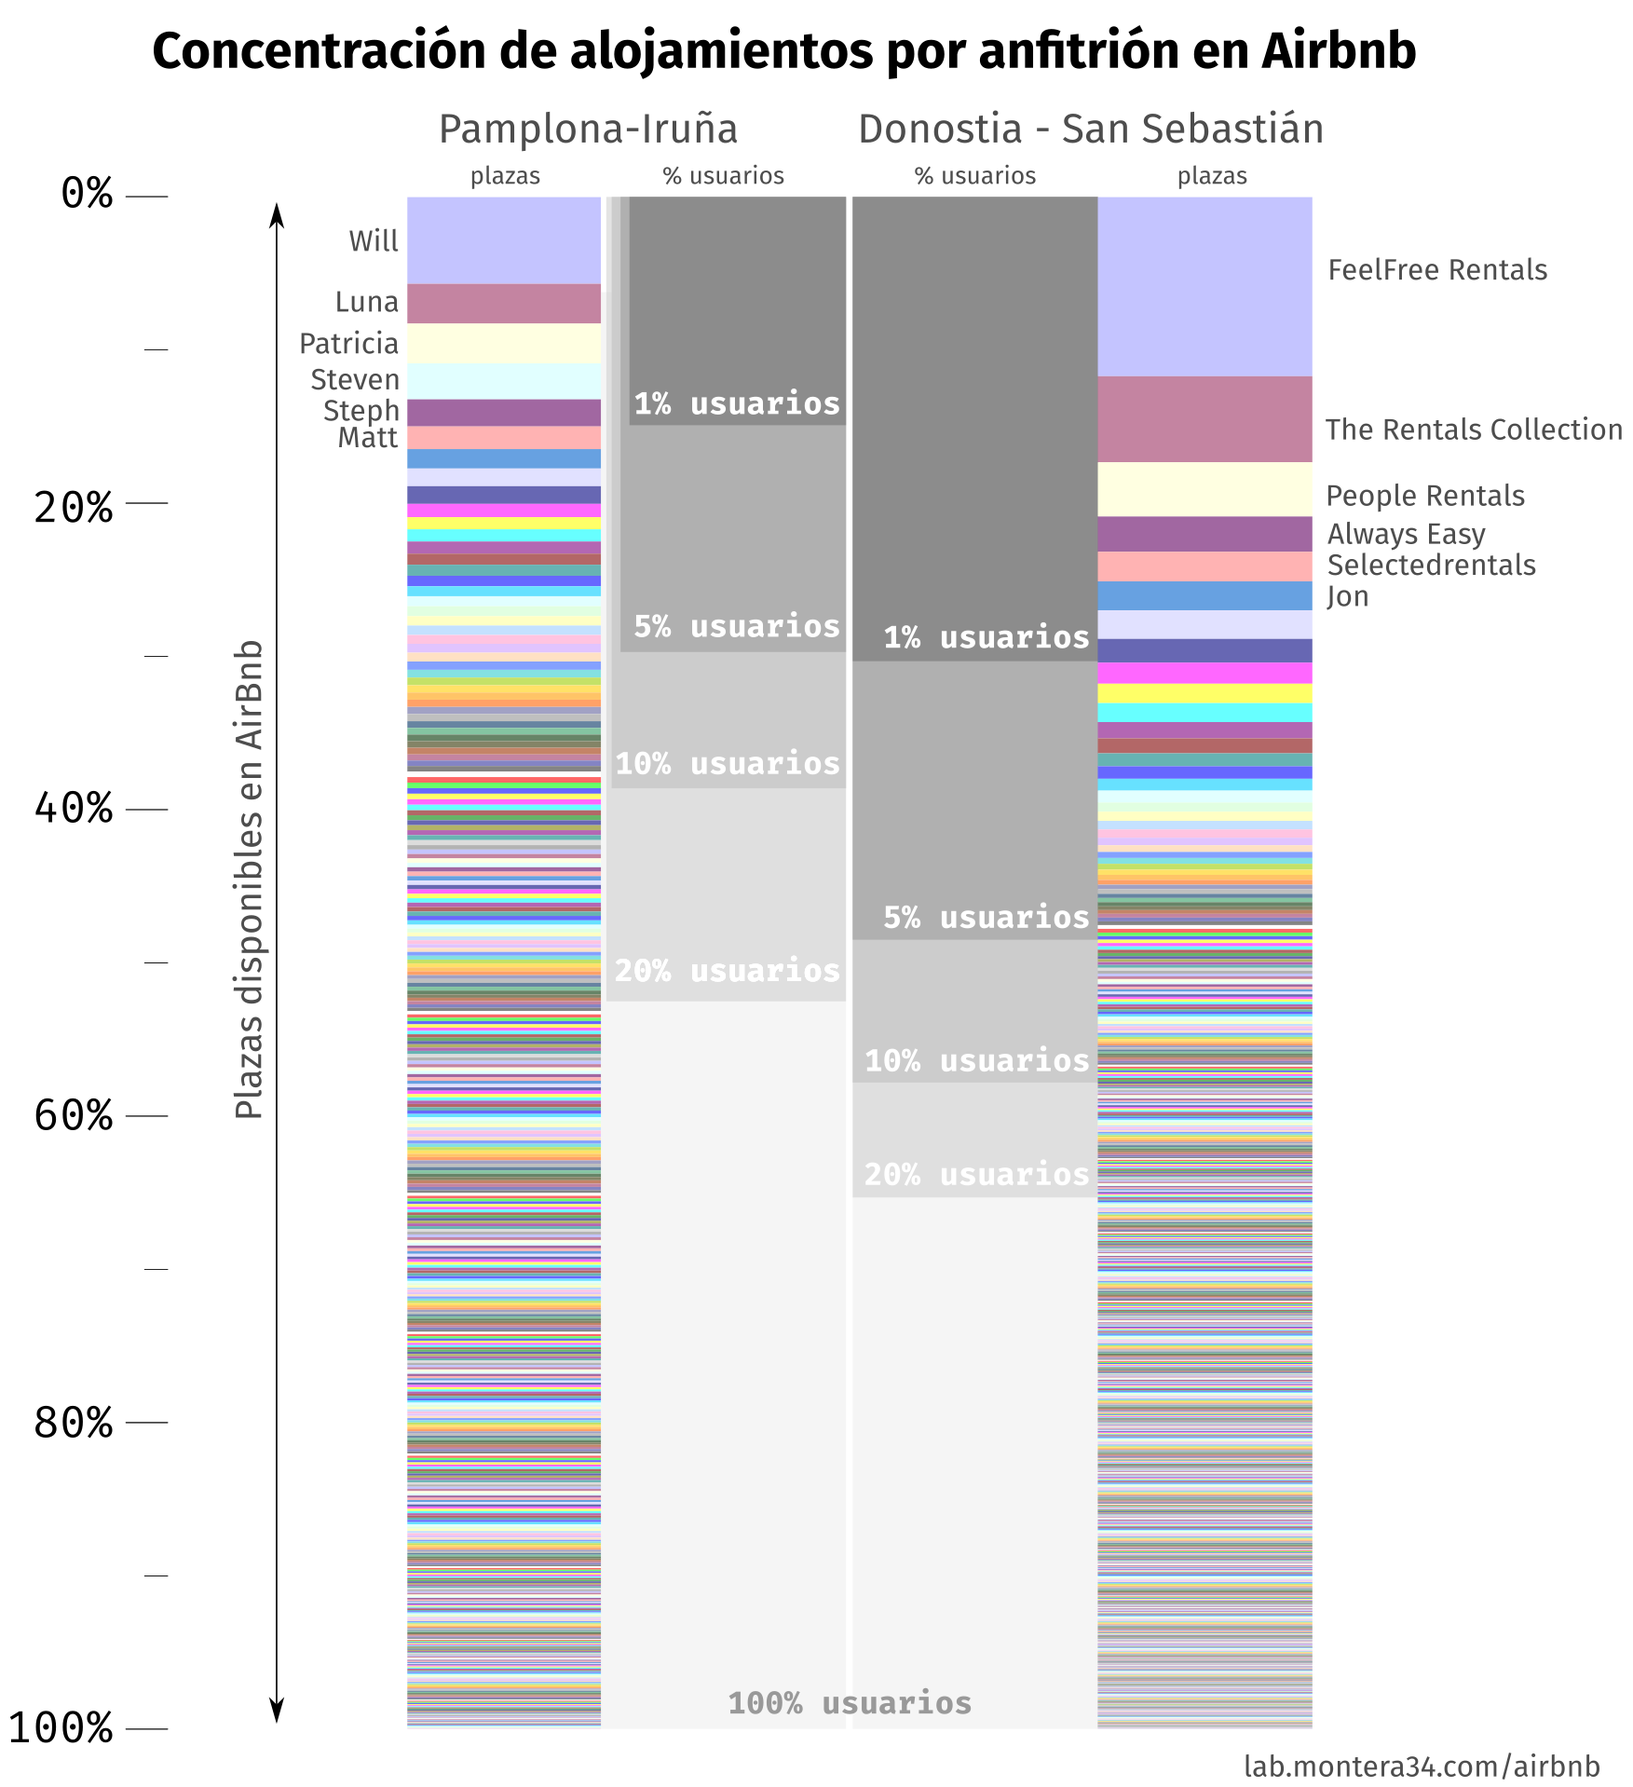
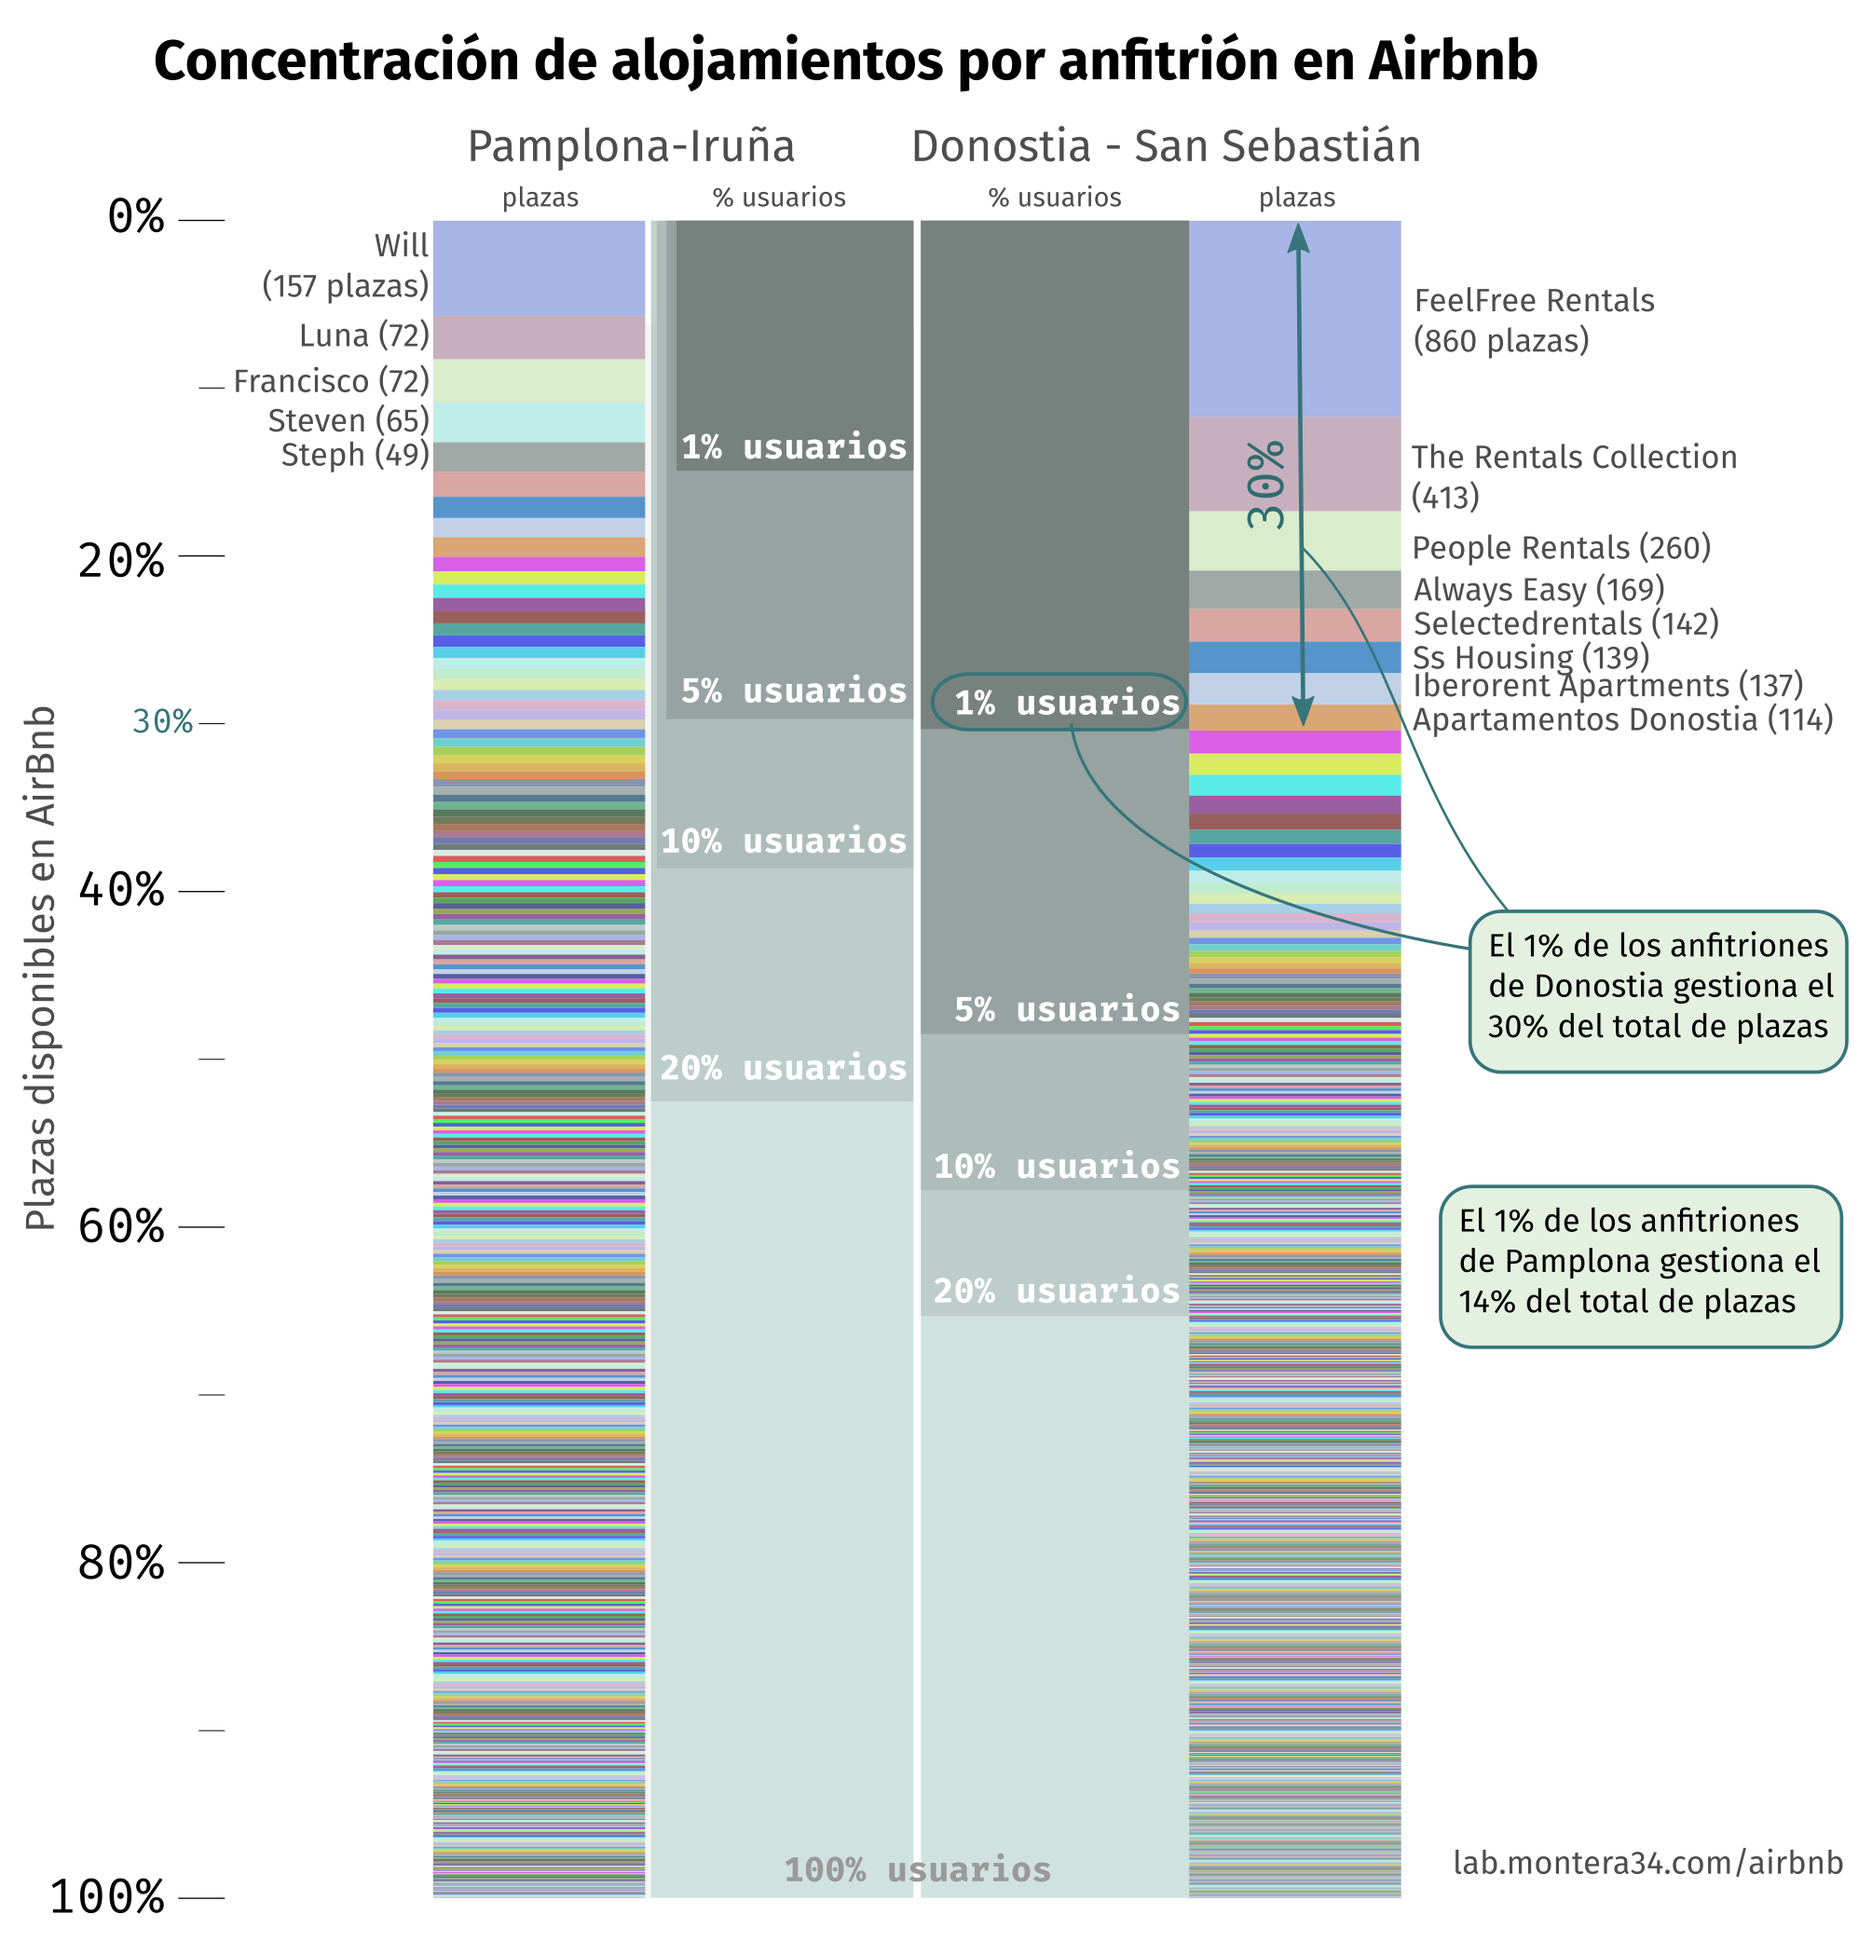
updates text anfitrioens Pamplona and updates iamge

diff --git a/pamplona/index.html b/pamplona/index.html
@@ -434,7 +434,7 @@
 			</div>
 			<div class="clearfix"></div>
 			<div class="col-md-10 col-md-offset-1">
-				<p>Es interesante analizar qué tipo de alojamientos ofertan estos top 10 anfitriones: 321 plazas corresponden a viviendas completas y 302 a habitaciones, ya sean completas o compartidas. Quizás lo más interesante a destacar es cómo parecen especializarse en el tipo de oferta. Los anfitriones Will, Francisco, Matt y Cecilia ofertan una mayoría de plazas en habitaciones compartidas, frente a Luna, Steven, Steph, Downtown Pamplona  , Daniel y Patricia que ofrecen más vivivendas completas.</p>
+				<p>Es interesante analizar qué tipo de alojamientos ofertan estos top 10 anfitriones: 321 plazas corresponden a viviendas completas y 302 a habitaciones, ya sean completas o compartidas. Quizás lo más interesante a destacar es cómo parecen especializarse en el tipo de oferta. Los anfitriones Will, Francisco, Matt y Cecilia ofertan una mayoría de plazas en habitaciones compartidas, frente a Luna, Steven, Steph, Downtown Pamplona S.L., Daniel y Patricia que ofrecen más vivivendas completas.</p>
 			</div>
 			<div class="clearfix"></div>
 			<div class="col-md-5 col-md-offset-1">
@@ -511,7 +511,7 @@
 						</tr>
 						<tr>
 							<td>7</td>
-							<td>Downtown Pamplona S.L</td>
+							<td>Downtown Pamplona SL</td>
 							<td class="text-right">08/2013</td>
 							<td class="text-right">5</td>
 							<td class="text-right"><strong>35</strong></td>
@@ -629,7 +629,7 @@
 						</tr>
 						<tr>
 							<td>9</td>
-							<td>Downtown Pamplona S.L</td>
+							<td>Downtown Pamplona SL</td>
 							<td class="text-right">08/2013</td>
 							<td class="text-right"><strong>5</strong></td>
 							<td class="text-right">35</td>
@@ -752,21 +752,17 @@
 
 		<div class="row vis-bod bigspacetopy">
 			<header class="col-md-10 col-md-offset-1">
-				<h3>Distribución de piso por anfitriones</h3>
-				<p>Para analizar cómo se concentra la propiedad (o gestión) de los alojamientos en Airbnb hemos comparado la distribución de anfitriones de Airbnb según el número de plazas que ofertan y lo hemos comparado con los datos que tenemos para Donostia-San Sebastián.</p>
+				<h3>Distribución de alojamientos por anfitriones</h3>
+				<p>Ya hemos visto como los anfitriones del top 10 concentran un gran número de plazas y anuncios pero ¿cómo se distribuye la propiedad (o gestión) del resto de  alojamientos de Airbnb? Para analizar esto hemos comparado la distribución de anfitriones de Airbnb según el número de plazas que ofertan con los datos que tenemos para Donostia-San Sebastián.</p>
 			</header>
-			<div class="clearfix"></div>
-			<div class="col-md-6 col-md-offset-3">
-				<figure><img class="img-responsive" src="images/distribucion-de-propietarios-pamplona-2.png" alt="Distribución de alojamientos de Airbnb por anfitrión en Pamplona-Iruña" /></figure>
-			</div>
 			<div class="clearfix"></div>
 			<div class="col-md-10 col-md-offset-1">
 				<h4>¿Cuántos anfitriones tienen 1 (o más) alojamientos?</h4>
-				<p class="vis-featured"><span class="vis-big">El 73,2% de anfitriones tiene solo un alojamiento.</span></p>
+				<p class="vis-featured"><span class="vis-big">En Pamplona el 73,2% de anfitriones tiene solo un alojamiento.</span></p>
 			</div>
 			<div class="clearfix"></div>
 			<div class="col-md-5 col-md-offset-1">
-				<p>Ya hemos visto que aproximadamente un 11% de los anfitriones tienen el 1.136 plazas de alojamiento (41%), lo que este gráfico nos indica es que la gran mayoría de los anfitriones (338) tiene solo un anuncio en Airbnb.</p>
+				<p>Ya hemos visto que aproximadamente un 11% de los anfitriones tienen el 1.136 plazas de alojamiento (41%), lo que este gráfico nos indica es que la gran mayoría de los anfitriones (338, el 73,2% del total de antitriones) tiene solo un anuncio en Airbnb.</p>
 				<p>Es importante tener en cuenta, a la hora de analizar los datos de Airbnb, la diferencia entre propietarios cuya propiedad se alquila durante un corto periodo de tiempo, de aquellos que la alquilan durante todo el año y de aquellos con varias propiedades a su cargo. En los dos últimos casos, nos encontramos ante una actividad profesional y/o empresarial cuyo desarrollo debería estar sujeto a unas normas impositivas diferentes a aquellas relacionadas con la economía colaborativa. Necesitaremos obtener más datos de Airbnb para poder distinguir los tipos de usuarios y sobre todo para poder estudiar la estacionalidad que creemos que existe en el caso de Pamplona-Iruña, marcada fuertemente por los San Fermines.</p>
 			</div>
 			<div class="col-md-5">
@@ -799,6 +795,13 @@
 				<div class="embed-responsive embed-responsive-4by3">
 					<iframe class="embed-responsive-item" src="https://docs.google.com/spreadsheets/d/e/2PACX-1vQt7w_mHfWy8y_uuqoYPvoAGvVEqTF1ds_lXTgCZg3E_K34jeBXoPdJ0_XxJR3c0HdOJm4kbLjYdIiS/pubchart?oid=600144557&amp;format=image"></iframe>
 				</div>
+			</div>
+			<div class="clearfix"></div>
+			<div class="col-md-6 col-md-offset-3">
+				<p>Los histogramas de número de alojamientos y de plazas entre los anfitriones son bastante similares en Pamplona y Donostia. Sin embargo, como muestra el gráfico siguiente, parece que la diferencia fundamental se encuentra en el 1% de anfitriones con más plazas. En el caso de Pamplona este 1% de superanfitriones gestiona el 14% de todas las plazas de Airbnb disponibles en la ciudad frente al 1% donostiarra que gestiona, el doble, un poco más del 30%.</p>
+			<div class="clearfix"></div>
+			<div class="col-md-12">
+				<figure><img class="img-responsive" src="images/distribucion-de-propietarios-pamplona-2.png" alt="Distribución de alojamientos de Airbnb por anfitrión en Pamplona-Iruña" /></figure>
 			</div>
 		</div><!-- row -->
 	</section>
